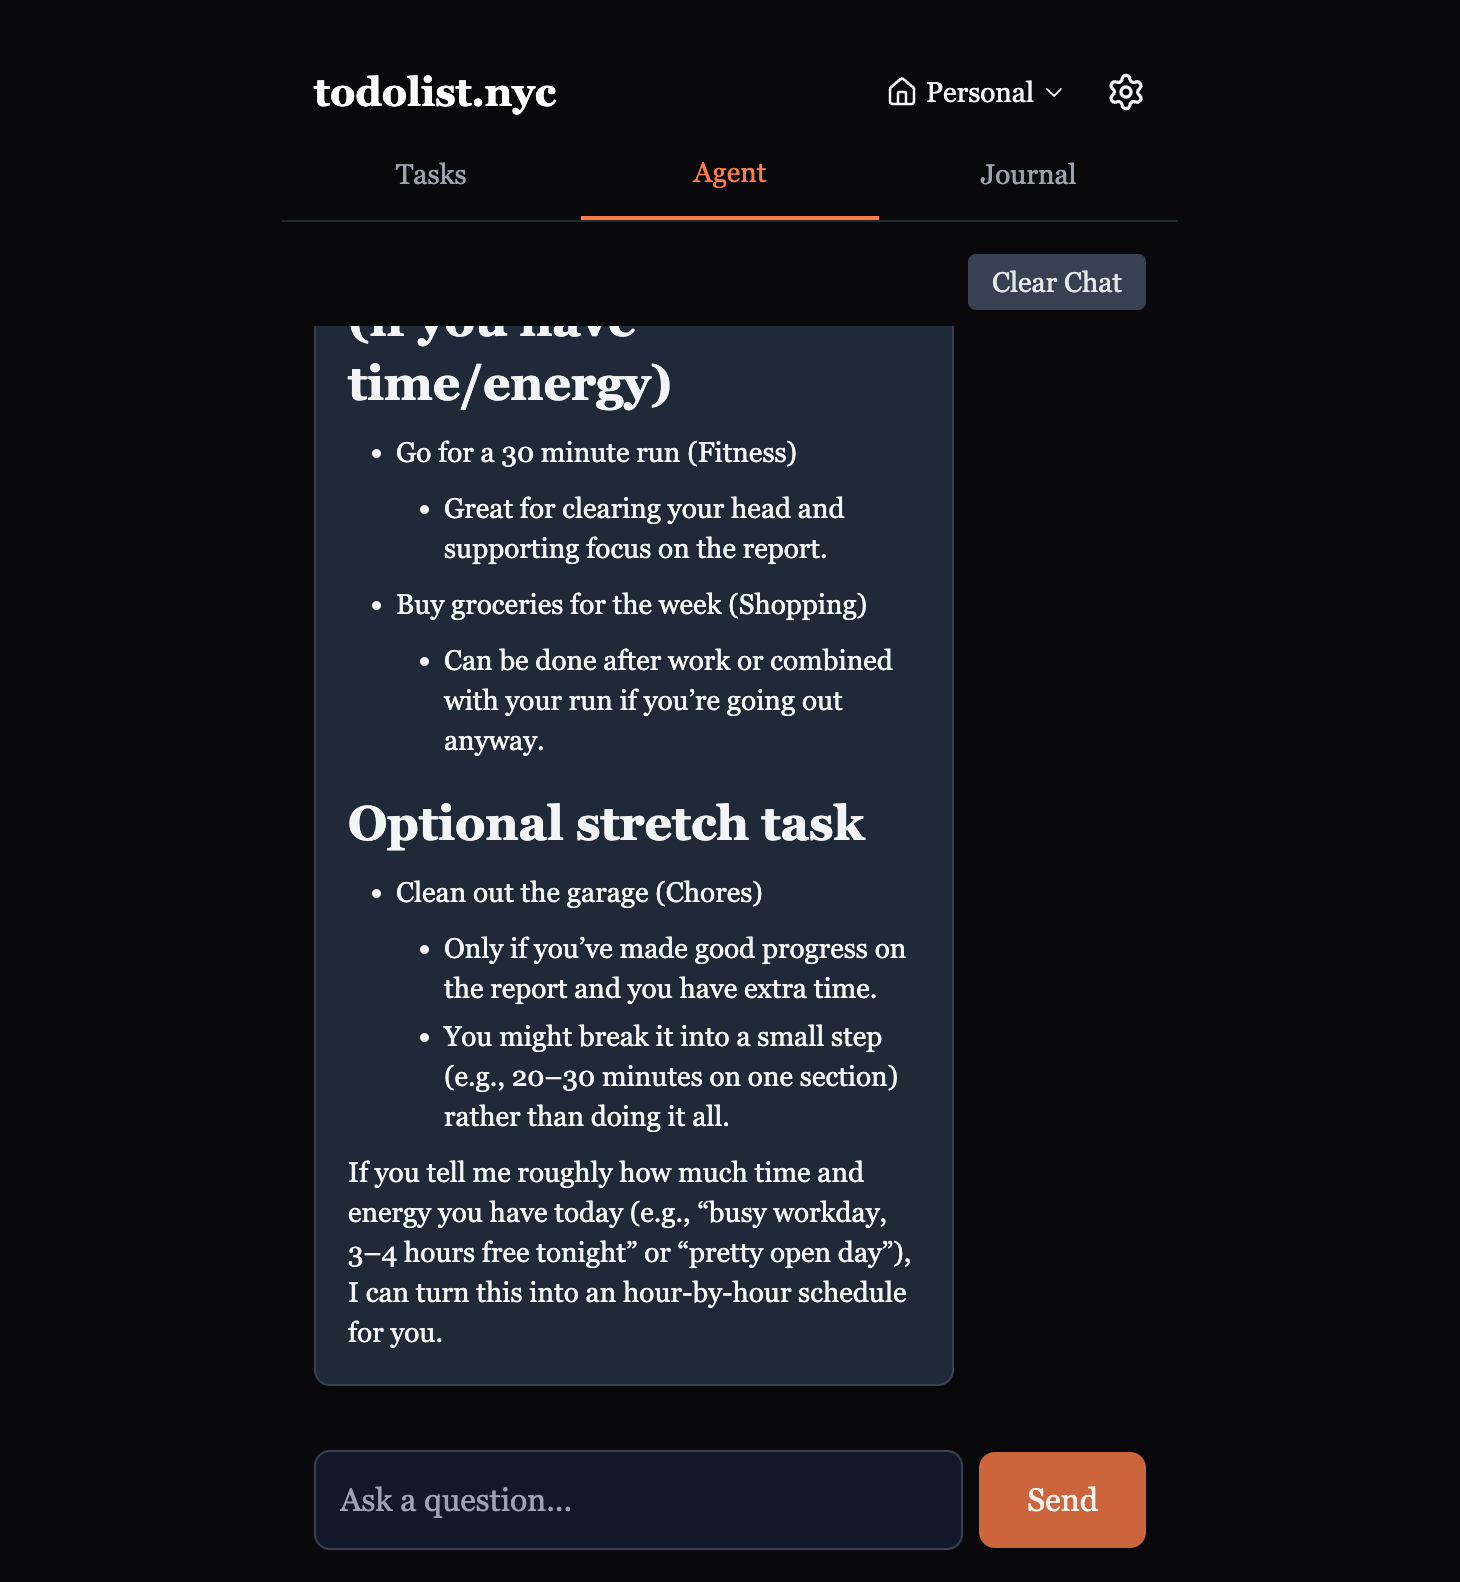
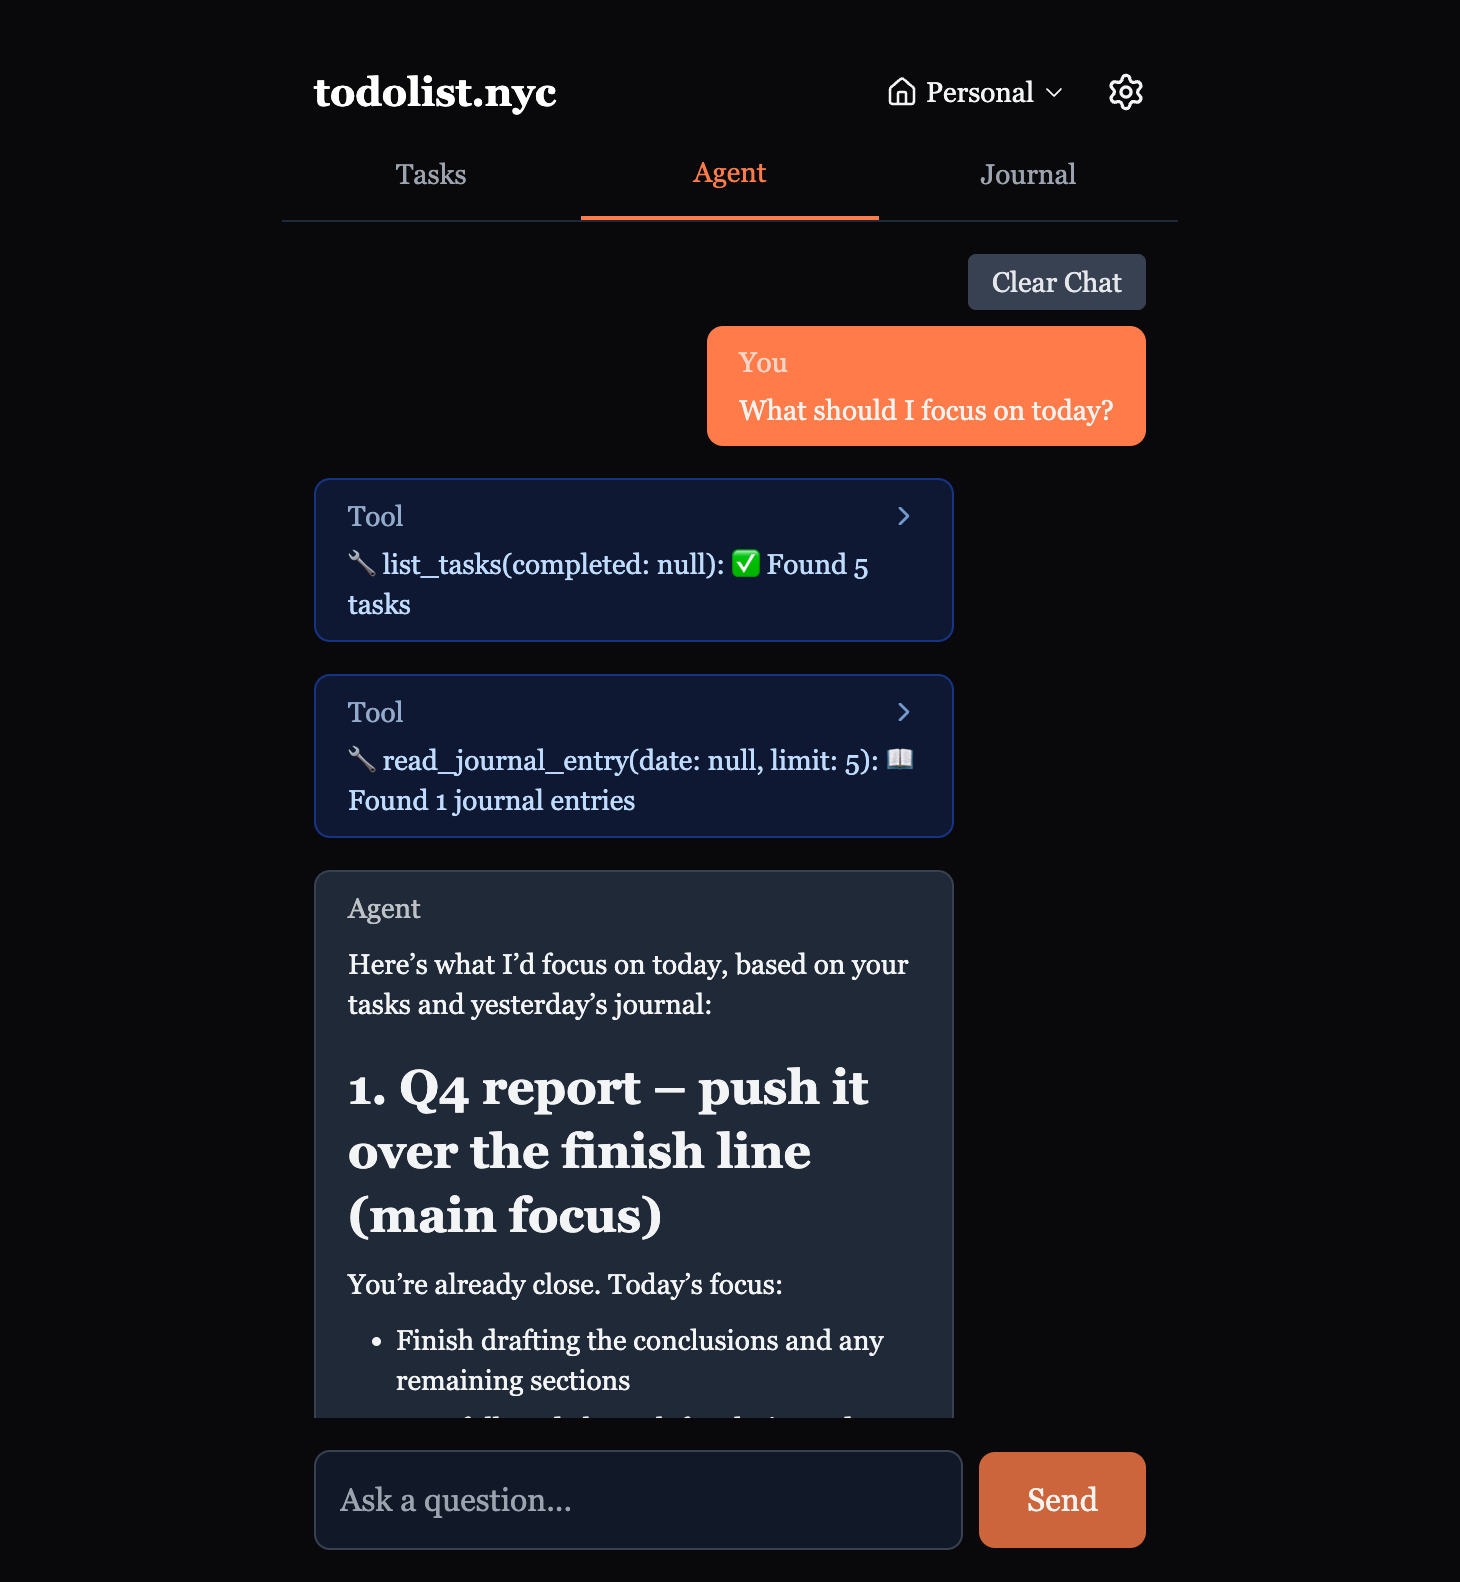
Add homepage screenshots documentation and update agent screenshot
- Document Playwright MCP screenshot process in HOMEPAGE_SCREENSHOTS_GUIDE.md
- Update agent-response.png to show user question and beginning of response
- Include scrolling techniques and responsive grid layout details

Changed region(s): [[0.2158, 0.1858, 0.8014, 0.8982]]

diff --git a/docs/HOMEPAGE_SCREENSHOTS_GUIDE.md b/docs/HOMEPAGE_SCREENSHOTS_GUIDE.md
@@ -1,0 +1,320 @@
+# Homepage Screenshots Guide
+
+This guide documents how to capture screenshots of the todolist.nyc app using Playwright MCP and add them to the homepage.
+
+## Overview
+
+The homepage displays three feature screenshots in a responsive grid layout:
+1. **Tasks View** - Smart task categorization
+2. **AI Agent** - AI-powered daily planning
+3. **Journal Entry** - Integrated daily journal
+
+## Prerequisites
+
+- Playwright MCP server configured in Claude Code
+- Development server running on `http://localhost:3000`
+- Test account credentials: `test@example.com` with code `000000`
+
+## Taking Screenshots with Playwright MCP
+
+### 1. Navigate to the App
+
+```javascript
+// Navigate to localhost
+await browser_navigate({ url: "http://localhost:3000" });
+```
+
+### 2. Log In with Test Account
+
+```javascript
+// Click login, enter test email, get code, log in
+await browser_click({ element: "Login link", ref: "..." });
+await browser_type({ element: "Email input", ref: "...", text: "test@example.com" });
+await browser_click({ element: "Send Code button", ref: "..." });
+await browser_type({ element: "Code input", ref: "...", text: "000000" });
+await browser_click({ element: "Login button", ref: "..." });
+```
+
+### 3. Screenshot #1: Tasks View
+
+The tasks view shows AI-powered categorization of todos.
+
+```javascript
+// Wait for tasks to load
+await browser_wait_for({ text: "Tasks" });
+
+// Take screenshot
+await browser_take_screenshot({
+  filename: "tasks-view.png"
+});
+```
+
+**Result**: Screenshot saved to `.playwright-mcp/homepage-screenshots/tasks-view.png`
+
+### 4. Screenshot #2: AI Agent Response
+
+The agent screenshot shows a user question and the AI's response.
+
+```javascript
+// Navigate to Agent tab
+await browser_click({ element: "Agent tab", ref: "..." });
+
+// Ask a question
+await browser_type({
+  element: "Chat input",
+  ref: "...",
+  text: "What should I focus on today?"
+});
+await browser_click({ element: "Send button", ref: "..." });
+
+// Wait for response to appear
+await browser_wait_for({ text: "Energy/health boost", time: 5 });
+
+// Scroll up to see question and start of response (if needed)
+await browser_evaluate({
+  function: "() => { window.scrollTo(0, 0); }"
+});
+
+// Take screenshot
+await browser_take_screenshot({
+  filename: "agent-response.png"
+});
+```
+
+**Result**: Screenshot shows user question "What should I focus on today?" and the AI's prioritized recommendations.
+
+### 5. Screenshot #3: Journal Entry
+
+The journal screenshot shows the daily journal interface with sample content.
+
+```javascript
+// Navigate to Journal tab
+await browser_click({ element: "Journal tab", ref: "..." });
+
+// Wait for journal to load
+await browser_wait_for({ text: "Journal" });
+
+// Type a journal entry (or use existing saved entry)
+await browser_type({
+  element: "Journal textarea",
+  ref: "...",
+  text: "Productive day today! Completed 3 tasks and made good progress on the machine learning project. Feeling energized and ready for tomorrow's challenges."
+});
+
+// Click Save
+await browser_click({ element: "Save button", ref: "..." });
+
+// Take screenshot
+await browser_take_screenshot({
+  filename: "journal-entry.png"
+});
+```
+
+**Result**: Screenshot saved to `.playwright-mcp/homepage-screenshots/journal-entry.png`
+
+## Copying Screenshots to Frontend
+
+After taking screenshots, copy them from the Playwright working directory to the frontend public folder:
+
+```bash
+# Copy all screenshots
+cp .playwright-mcp/homepage-screenshots/*.png frontend/public/screenshots/
+
+# Or copy individually
+cp .playwright-mcp/homepage-screenshots/tasks-view.png frontend/public/screenshots/
+cp .playwright-mcp/homepage-screenshots/agent-response.png frontend/public/screenshots/
+cp .playwright-mcp/homepage-screenshots/journal-entry.png frontend/public/screenshots/
+```
+
+## Adding Screenshots to Homepage
+
+### Location
+Edit `frontend/pages/home.tsx` to add the screenshots section.
+
+### Responsive Grid Layout
+
+The screenshots are displayed in a responsive grid:
+- **Desktop (lg)**: 3 columns
+- **Tablet (md)**: 2 columns
+- **Mobile**: 1 column (stacked)
+
+### Code
+
+```tsx
+{/* Screenshots Section */}
+<section className="mb-16">
+  <h2 className="text-3xl font-bold text-center text-gray-100 mb-12">
+    See It in Action
+  </h2>
+
+  <div className="grid grid-cols-1 md:grid-cols-2 lg:grid-cols-3 gap-8">
+    {/* Tasks Screenshot */}
+    <div className="rounded-lg overflow-hidden border border-gray-800 shadow-xl hover:shadow-2xl transition-shadow">
+      <img
+        src="/screenshots/tasks-view.png"
+        alt="Smart task management with AI categorization"
+        className="w-full h-auto"
+      />
+      <div className="p-4 bg-gray-900">
+        <p className="text-sm text-gray-300">Smart task categorization</p>
+      </div>
+    </div>
+
+    {/* Agent Screenshot */}
+    <div className="rounded-lg overflow-hidden border border-gray-800 shadow-xl hover:shadow-2xl transition-shadow">
+      <img
+        src="/screenshots/agent-response.png"
+        alt="AI Assistant providing personalized recommendations"
+        className="w-full h-auto"
+      />
+      <div className="p-4 bg-gray-900">
+        <p className="text-sm text-gray-300">AI-powered daily planning</p>
+      </div>
+    </div>
+
+    {/* Journal Screenshot */}
+    <div className="rounded-lg overflow-hidden border border-gray-800 shadow-xl hover:shadow-2xl transition-shadow">
+      <img
+        src="/screenshots/journal-entry.png"
+        alt="Integrated daily journal"
+        className="w-full h-auto"
+      />
+      <div className="p-4 bg-gray-900">
+        <p className="text-sm text-gray-300">Integrated daily journal</p>
+      </div>
+    </div>
+  </div>
+</section>
+```
+
+## Styling Details
+
+### Container Features
+- **Border**: Gray-800 border for definition
+- **Rounded corners**: `rounded-lg` for modern look
+- **Shadow**: `shadow-xl` that increases to `shadow-2xl` on hover
+- **Transition**: Smooth shadow transition on hover
+
+### Image Styling
+- **Responsive**: `w-full h-auto` maintains aspect ratio
+- **Overflow**: Hidden to respect rounded corners
+
+### Caption Styling
+- **Background**: Dark gray-900 for contrast
+- **Padding**: `p-4` for comfortable spacing
+- **Text**: Small gray-300 text for subtle description
+
+## Playwright MCP Scrolling
+
+Playwright MCP supports scrolling via JavaScript evaluation:
+
+```javascript
+// Scroll to top
+await browser_evaluate({
+  function: "() => { window.scrollTo(0, 0); }"
+});
+
+// Scroll to specific position
+await browser_evaluate({
+  function: "() => { window.scrollTo(0, 500); }"
+});
+
+// Scroll element into view
+await browser_evaluate({
+  element: "Chat message",
+  ref: "...",
+  function: "(element) => { element.scrollIntoView(); }"
+});
+```
+
+## Tips for Better Screenshots
+
+### 1. Wait for Content
+Always wait for content to load before taking screenshots:
+```javascript
+await browser_wait_for({ text: "Expected content", time: 5 });
+```
+
+### 2. Clean Data
+Use the test account or create sample data that looks good in screenshots:
+- 3-5 tasks with varied categories
+- A thoughtful journal entry
+- An interesting agent query with a detailed response
+
+### 3. Scroll Positioning
+For long responses, scroll to show the most relevant part:
+- Agent: Show question + beginning of response
+- Journal: Show entry text clearly
+- Tasks: Show multiple categorized tasks
+
+### 4. Consistent Timing
+Take screenshots at similar times of day for consistent UI appearance.
+
+## Committing Changes
+
+After adding screenshots to the homepage:
+
+```bash
+# Stage changes
+git add frontend/pages/home.tsx
+git add frontend/public/screenshots/*.png
+
+# Commit
+git commit -m "Add homepage screenshots with responsive grid layout"
+
+# Push to branch
+git push origin nicholas/homepage
+```
+
+## File Structure
+
+```
+frontend/
+├── pages/
+│   └── home.tsx              # Homepage with screenshot grid
+└── public/
+    └── screenshots/
+        ├── tasks-view.png     # Tasks with AI categorization
+        ├── agent-response.png # AI agent conversation
+        └── journal-entry.png  # Daily journal entry
+
+.playwright-mcp/
+└── homepage-screenshots/     # Playwright working directory
+    ├── tasks-view.png
+    ├── agent-response.png
+    └── journal-entry.png
+```
+
+## Troubleshooting
+
+### Screenshots Too Large
+Playwright saves high-resolution screenshots. They display responsively on the page with `w-full h-auto`.
+
+### Agent Response Too Long
+Scroll up to show the user's question and the beginning of the AI response:
+```javascript
+await browser_evaluate({
+  function: "() => { window.scrollTo(0, 0); }"
+});
+```
+
+### Service Worker Caching
+If screenshots don't update, clear the service worker cache:
+1. Open DevTools → Application → Service Workers
+2. Click "Unregister"
+3. Hard refresh (Cmd+Shift+R)
+
+### Journal Autosave Issues
+If the journal has autosave bugs causing infinite loops, manually save before taking screenshots.
+
+## Next Steps
+
+- Update screenshots periodically as features evolve
+- Consider adding more screenshots for mobile/tablet views
+- Add captions that highlight specific features shown in each screenshot
+- Test responsiveness on different screen sizes
+
+---
+
+**Last Updated**: 2025-12-11
+**Branch**: nicholas/homepage
